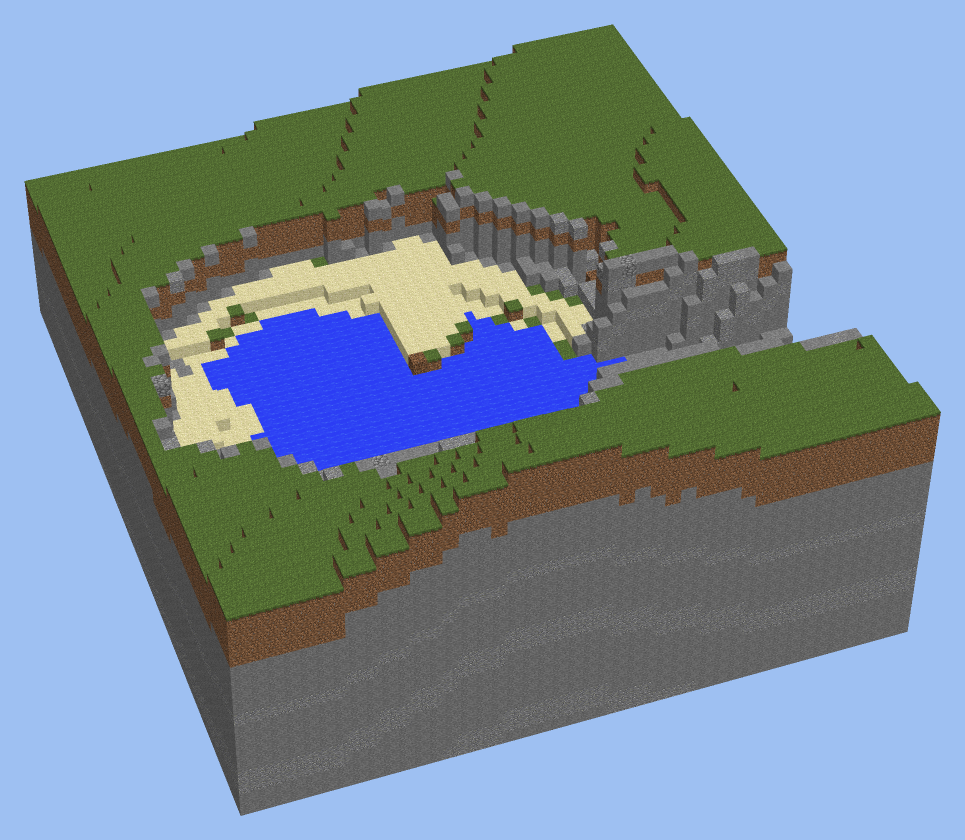
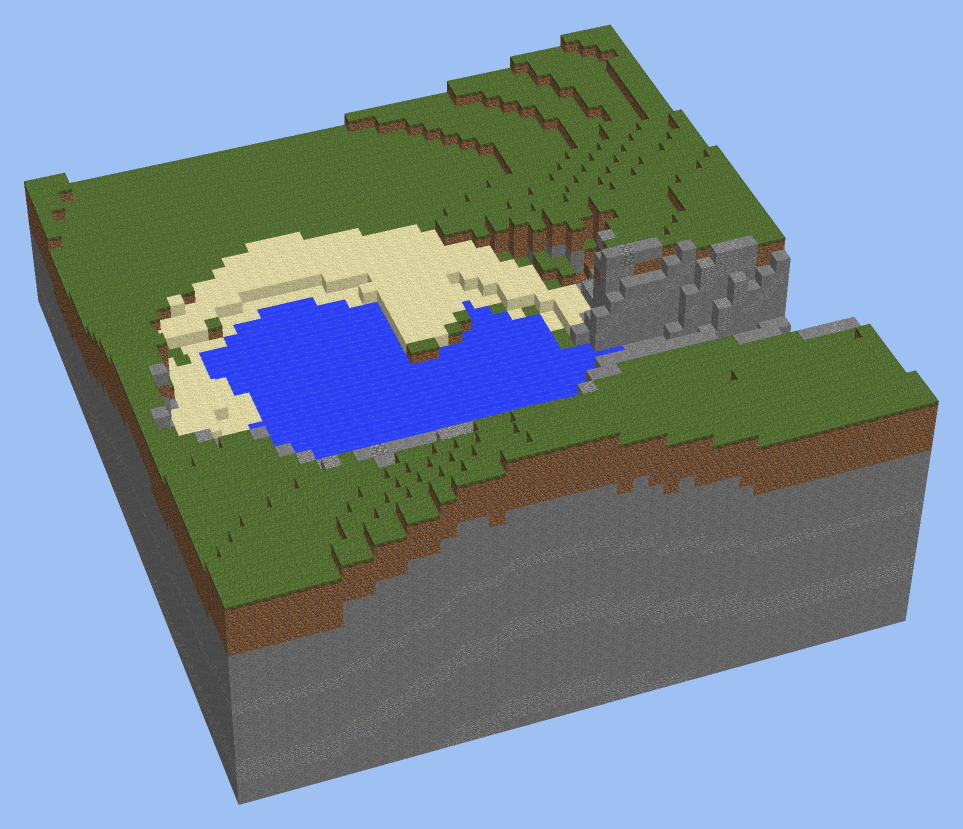
Chantry Gill land: the scar dies into the fell, a stone brow, a gentle beach, a bay
The scar's height and its brow's reach fade together over twenty blocks at
both ends, the plateau's tilt halved, so the contours no longer stack where
it meets the fell; the brow's top is stone. The fell is let down gently to
the tarn's north shore where the beach lies; the gill's south wall stands
back in a bay that comes down to the beck in broad steps.

Claude-Session: https://claude.ai/code/session_01SkxaMovP21NqxJRVezmVa6

diff --git a/freeform/lib/boards/chantry-gill/assets/land_spec.py b/freeform/lib/boards/chantry-gill/assets/land_spec.py
@@ -28,8 +28,10 @@ fields = {
     "jag": {"mul": [{"fbm": {"cell": 4, "octaves": 2, "seed": 5}}, 2.5]},
     "ridge-foot": {"line": {"along": "x", "cell": 18, "seed": 6, "amp": 5, "base": 86}},
     "scar-d": dist,
+    "fade": {"mul": [{"smoothstep": [64, 88, "x"]}, {"sub": [1, {"smoothstep": [116, 139, "x"]}]}]},
     "reach": {"line": {"along": "x", "cell": 14, "seed": 13, "amp": 2.2, "base": 4, "clip": [1, 6]}},
-    "plateau": {"add": [TOP, {"mul": ["small", 0.6]}, {"mul": [0.2, {"sub": ["x", 100]}]},
+    "reach-in": {"mul": ["reach", {"smoothstep": [0.25, 0.9, "fade"]}]},
+    "plateau": {"add": [TOP, {"mul": ["small", 0.6]}, {"mul": [0.1, {"sub": ["x", 100]}]},
                         {"mul": [-0.22, {"pow": [{"max": [0, {"sub": [{"abs": {"sub": ["x", 101]}}, 16]}]}, 1.35]}]}]},
 }
 ground = [
@@ -40,8 +42,9 @@ ground = [
      "note": "the fell: rising south and a little east, a swell south-west, rolling in two sizes"},
     {"id": "scar", "op": "set", "where": {"gt": ["scar-d", -6]},
      "height": {"profile": {"d": "scar-d", "floor": "H", "mode": "lift",
-                            "steps": [{"start": {"add": [-1, "jag"]}, "end": {"add": [1.5, "jag"]}, "top": "plateau"}]}},
-     "note": "the scar: a step of limestone up to the plateau, its edge ragged"},
+                            "steps": [{"start": {"add": [-1, "jag"]}, "end": {"add": [1.5, "jag"]},
+                                       "top": {"add": ["H", {"mul": ["fade", {"max": [0, {"sub": ["plateau", "H"]}]}]}]}}]}},
+     "note": "the scar: a step of limestone up to the plateau, its edge ragged, dying into the fell at both ends"},
     {"id": "back-ridge", "op": "set",
      "height": {"ridge": {"coord": "z", "foot": "ridge-foot", "reach": -22, "crest": 66,
                           "rough": {"mul": ["big", 3]},
@@ -54,9 +57,15 @@ ground = [
     {"id": "tongue", "op": "level", "mode": "set", "top": 37, "inner": 0.7, "outer": 1.2,
      "areas": [{"polygon": TONGUE, "rough": {"amp": 0.1, "cell": 3, "seed": 8}}],
      "note": "a tongue of land running out into the tarn from its north shore"},
+    {"id": "beach-side", "op": "level", "mode": "cut", "top": 37, "inner": 0.45, "outer": 1.7,
+     "areas": [{"ellipse": {"at": [16, 8], "rx": 22, "rz": 12}, "rough": {"amp": 0.1, "cell": 6, "seed": 14}}],
+     "note": "the fell let down gently to the tarn's north shore, where the beach is"},
     {"id": "gill", "op": "level", "mode": "cut", "top": 34, "inner": 0.5, "outer": 1.0,
      "areas": [{"line": {"pts": GILL, "width": 11}, "rough": {"amp": 0.15, "cell": 4, "seed": 9}}],
      "note": "the gill: a gorge eight to ten deep"},
+    {"id": "bay", "op": "level", "mode": "cut", "top": 37, "inner": 0.3, "outer": 2.0,
+     "areas": [{"ellipse": {"at": [100, 47], "rx": 12, "rz": 8, "angle": -10}}],
+     "note": "a bay in the gill's south side, where its wall stands back and the ground comes down gently"},
     {"id": "beck", "op": "river", "line": GILL, "width": 4, "depth": 2, "water": 2, "bank": 1,
      "note": "the beck down the gill into the tarn"},
     {"id": "tarn-water", "op": "water", "level": 36,
@@ -64,9 +73,9 @@ ground = [
 ]
 paint = [
     {"block": "SAND", "slope": [None, 30], "height": [None, 37],
-     "area": {"polygon": TARN, "plus": -0.25}, "note": "the beach: every gentle cell a block over the water"},
+     "area": {"polygon": TARN, "plus": -0.12}, "note": "the beach: every gentle cell a block over the water"},
     {"block": "SAND", "slope": [None, 24], "height": [None, 38],
-     "area": {"polygon": TARN, "plus": -0.25}, "noise": {"field": "patch", "lo": -0.2},
+     "area": {"polygon": TARN, "plus": -0.08}, "noise": {"field": "patch", "lo": 0.1},
      "note": "and ragged a block higher, so its edge is not a contour"},
     {"block": "GRAVEL", "slope": [None, 30], "area": {"line": {"near": "beck", "width": 8}}, "noise": {"field": "patch", "lo": 0}},
     {"block": ["STONE", 5], "slope": [50, None], "noise": {"field": "patch", "lo": 0.15}},
@@ -82,11 +91,11 @@ doc = {
     "levels": [
         {"id": "brow", "floor": TOP,
          "ground": [{"id": "brow-outline", "op": "outline",
-                     "where": {"and": [{"gt": ["scar-d", {"neg": "reach"}]}, {"lt": ["scar-d", 3]},
-                                       {"gt": ["x", 76]}, {"lt": ["x", 126]}]}},
+                     "where": {"and": [{"gt": ["scar-d", {"neg": "reach-in"}]}, {"lt": ["scar-d", 3]},
+                                       {"gt": ["fade", 0.25]}]}},
                     {"id": "brow-ground", "op": "set", "height": "plateau"}],
-         "paint": paint[3:], "soil": 1,
-         "underside": {"bottom": {"sub": ["plateau", {"add": [2, {"mul": [2.0, {"add": ["reach", "scar-d"]}]}]}]},
+         "paint": [{"block": ["STONE", 5], "noise": {"field": "patch", "lo": 0.2}}, {"block": ["STONE", 0]}], "soil": 0,
+         "underside": {"bottom": {"sub": ["plateau", {"add": [2, {"mul": [2.0, {"add": ["reach-in", "scar-d"]}]}]}]},
                        "clear": 2},
          "note": "the scar's brow: its face leaning out over its foot, a block out for every two up"}],
     "carve": [
